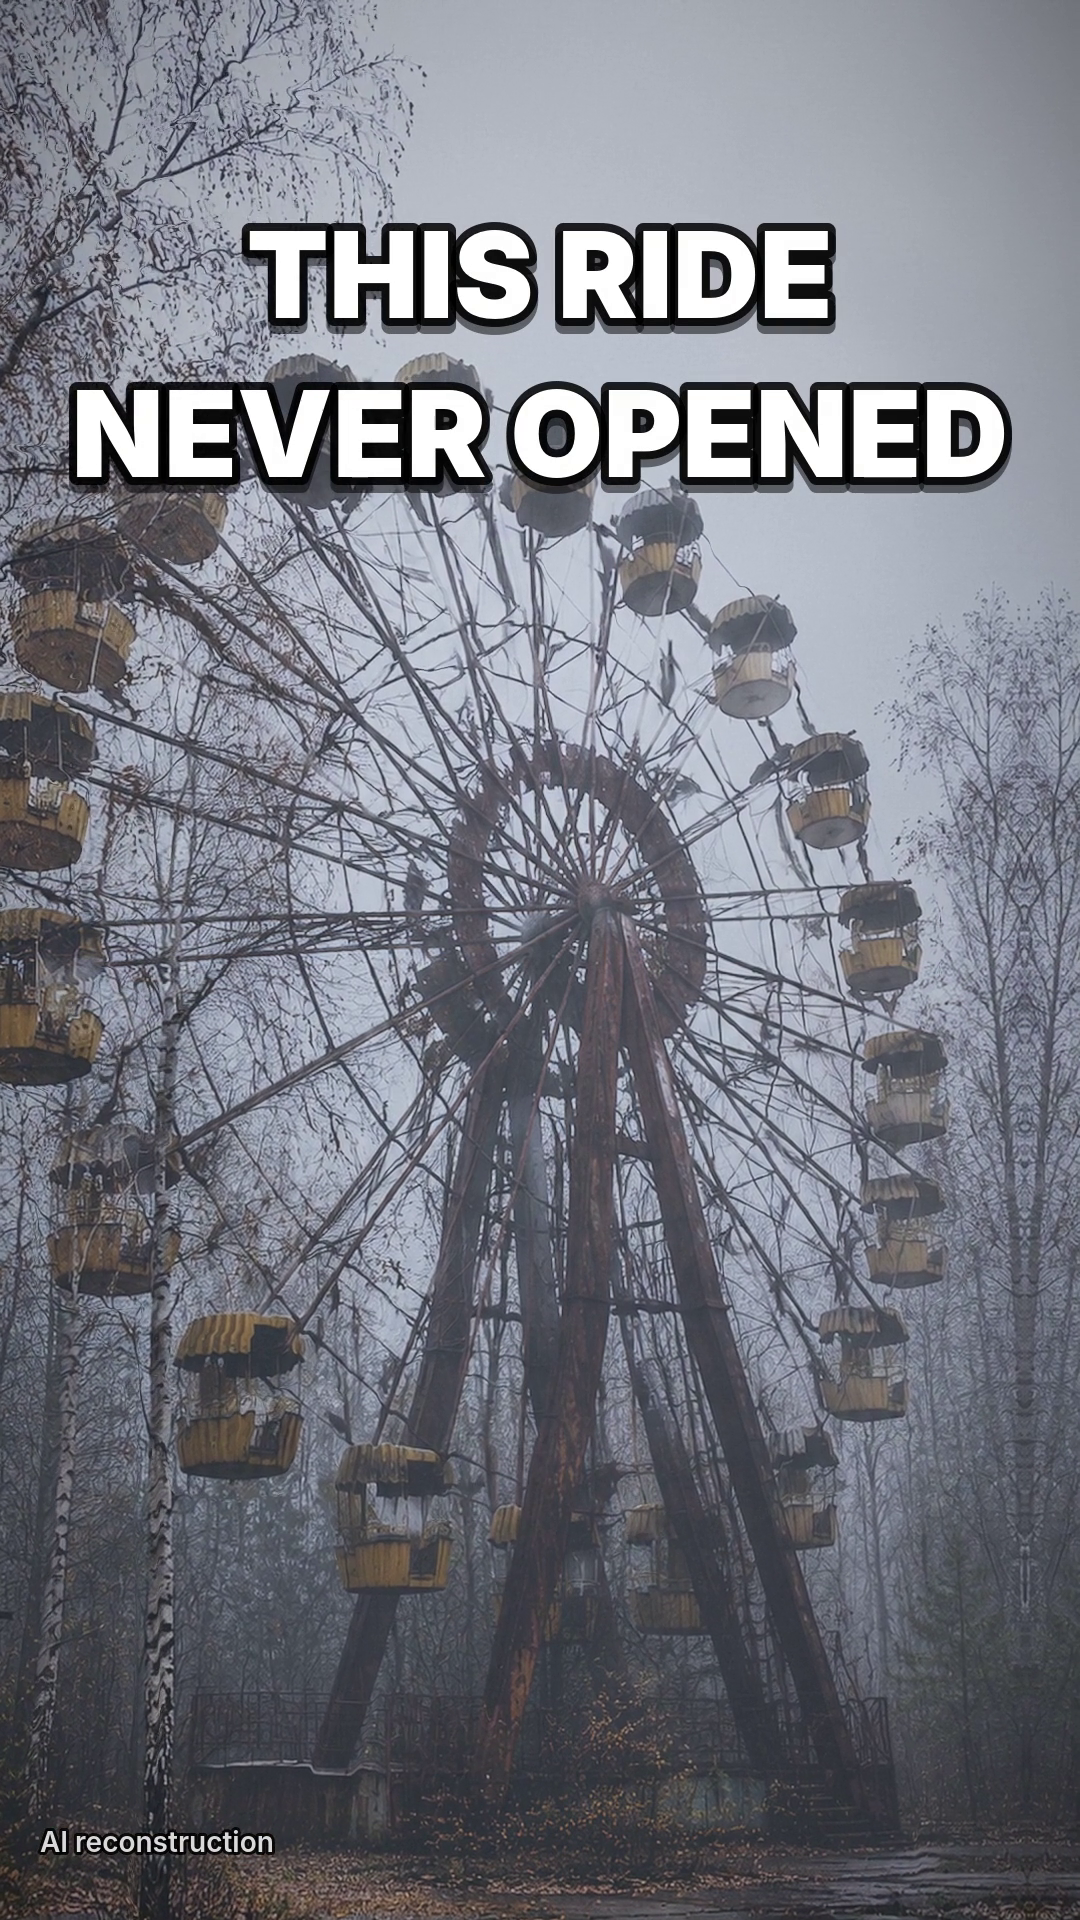
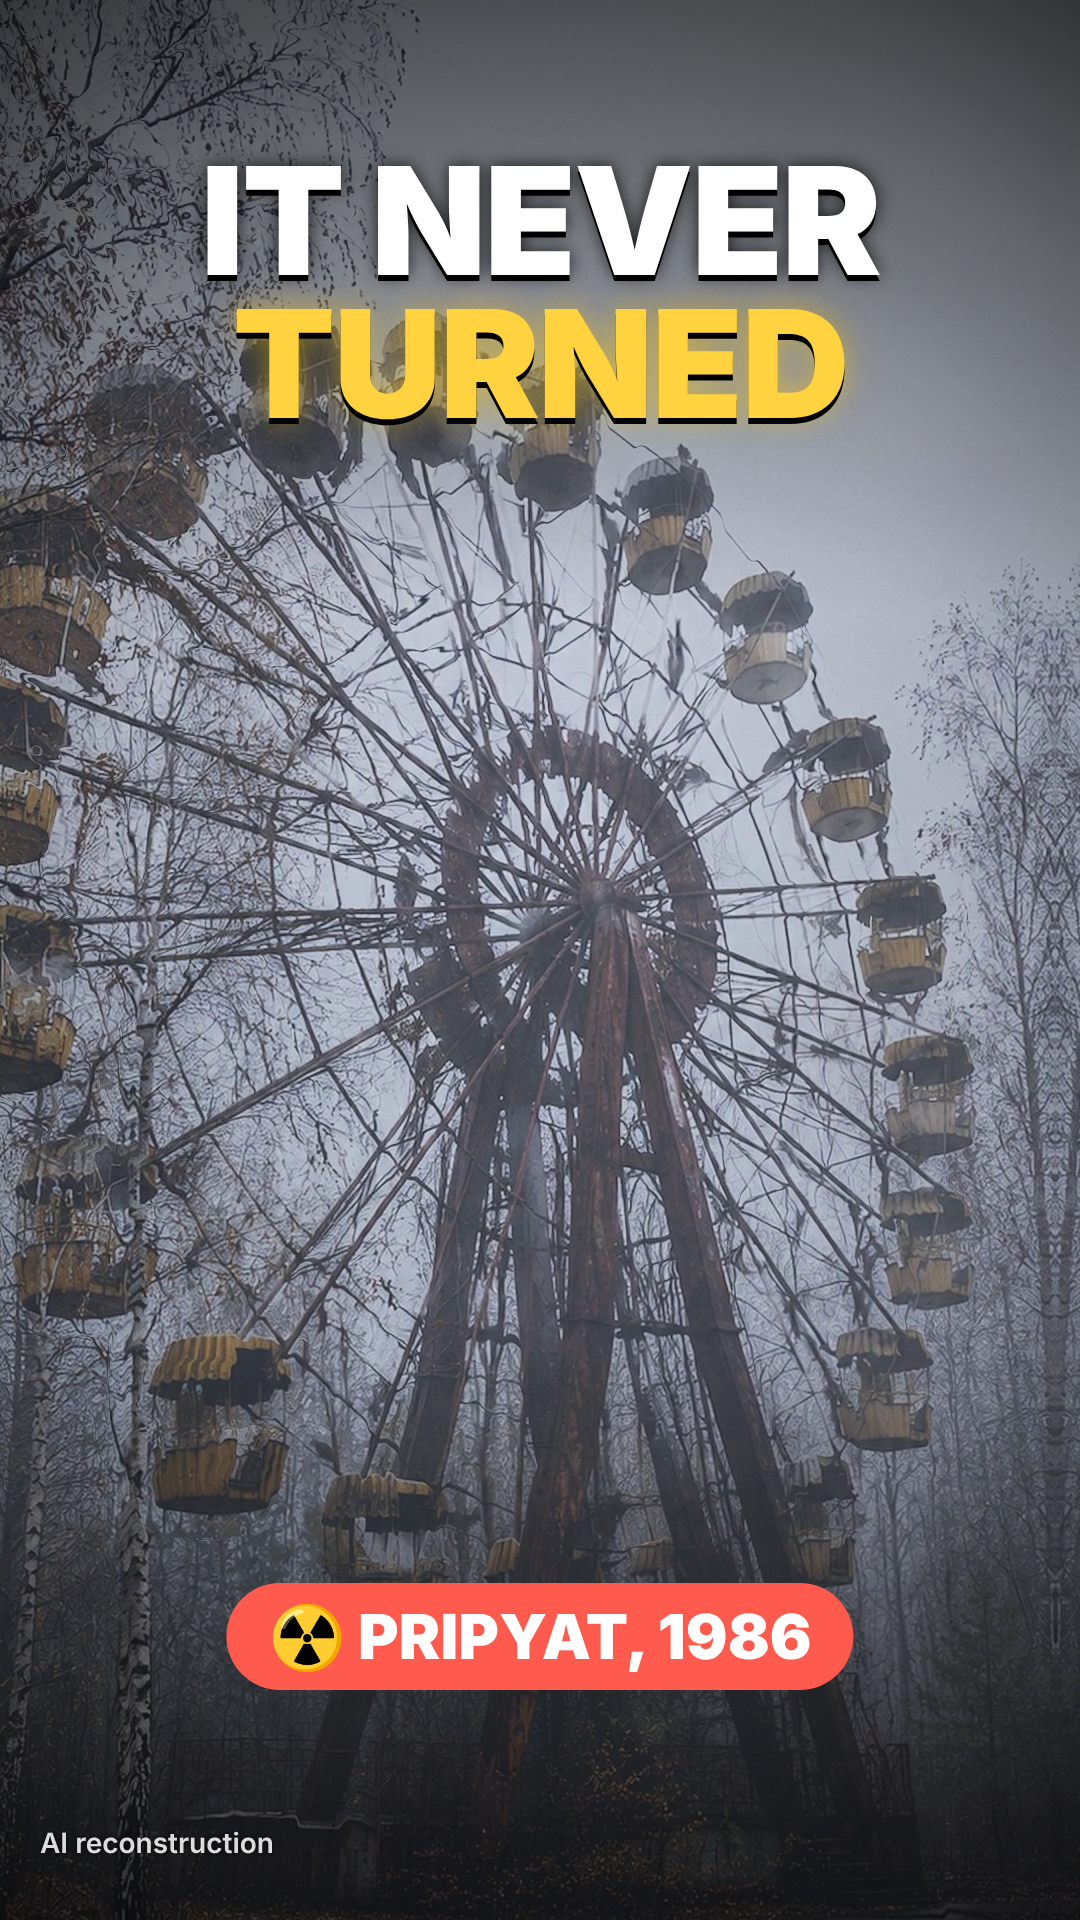
Pripyat: designed thumbnail
Claude-Session: https://claude.ai/code/session_01Lg7mnhWEpECr4GHu7Bf189

diff --git a/brand/pripyat_thumbnail.html b/brand/pripyat_thumbnail.html
@@ -1,0 +1,15 @@
+<!doctype html><html><head><meta charset="utf-8"><style>
+@font-face{font-family:X;src:url(file:///usr/share/fonts/opentype/inter/Inter-Black.otf)}
+@font-face{font-family:S;src:url(file:///usr/share/fonts/opentype/inter/Inter-SemiBold.otf)}
+html,body{margin:0;width:1080px;height:1920px;overflow:hidden}
+.bg{position:absolute;inset:0;background:url(bg.png) center/cover}
+.sh{position:absolute;inset:0;background:linear-gradient(to bottom,rgba(0,0,0,.55) 0%,rgba(0,0,0,0) 32%,rgba(0,0,0,0) 70%,rgba(0,0,0,.6) 100%)}
+.t{position:absolute;top:150px;width:100%;text-align:center;font-family:X;line-height:.95;letter-spacing:-2px}
+.a{font-size:150px;color:#fff;text-shadow:0 6px 0 #000,0 0 18px rgba(0,0,0,.8)}
+.b{font-size:150px;color:#ffd23f;text-shadow:0 6px 0 #000,0 0 30px rgba(255,200,0,.5)}
+.c{position:absolute;bottom:230px;left:50%;transform:translateX(-50%);background:#ff5a4e;color:#fff;font-family:X;font-size:62px;padding:16px 42px;border-radius:60px;white-space:nowrap}
+.l{position:absolute;left:40px;bottom:60px;font-family:S;font-size:28px;color:#fff;opacity:.85;text-shadow:0 0 4px #000}
+</style></head><body><div class="bg"></div><div class="sh"></div>
+<div class="t"><div class="a">IT NEVER</div><div class="b">TURNED</div></div>
+<div class="c">☢ PRIPYAT, 1986</div>
+<div class="l">AI reconstruction</div></body></html>
